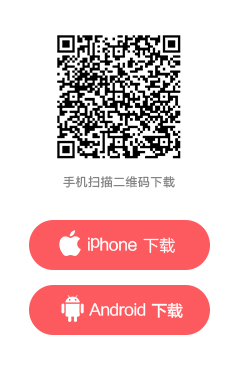
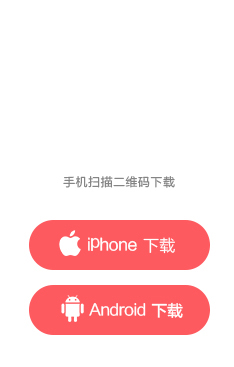
二维码

Changed region(s): [[0.2393, 0.0899, 0.7778, 0.4496]]

diff --git a/public/js/jquery.qrcode.min.js b/public/js/jquery.qrcode.min.js
@@ -1,0 +1,28 @@
+(function(r){r.fn.qrcode=function(h){var s;function u(a){this.mode=s;this.data=a}function o(a,c){this.typeNumber=a;this.errorCorrectLevel=c;this.modules=null;this.moduleCount=0;this.dataCache=null;this.dataList=[]}function q(a,c){if(void 0==a.length)throw Error(a.length+"/"+c);for(var d=0;d<a.length&&0==a[d];)d++;this.num=Array(a.length-d+c);for(var b=0;b<a.length-d;b++)this.num[b]=a[b+d]}function p(a,c){this.totalCount=a;this.dataCount=c}function t(){this.buffer=[];this.length=0}u.prototype={getLength:function(){return this.data.length},
+write:function(a){for(var c=0;c<this.data.length;c++)a.put(this.data.charCodeAt(c),8)}};o.prototype={addData:function(a){this.dataList.push(new u(a));this.dataCache=null},isDark:function(a,c){if(0>a||this.moduleCount<=a||0>c||this.moduleCount<=c)throw Error(a+","+c);return this.modules[a][c]},getModuleCount:function(){return this.moduleCount},make:function(){if(1>this.typeNumber){for(var a=1,a=1;40>a;a++){for(var c=p.getRSBlocks(a,this.errorCorrectLevel),d=new t,b=0,e=0;e<c.length;e++)b+=c[e].dataCount;
+for(e=0;e<this.dataList.length;e++)c=this.dataList[e],d.put(c.mode,4),d.put(c.getLength(),j.getLengthInBits(c.mode,a)),c.write(d);if(d.getLengthInBits()<=8*b)break}this.typeNumber=a}this.makeImpl(!1,this.getBestMaskPattern())},makeImpl:function(a,c){this.moduleCount=4*this.typeNumber+17;this.modules=Array(this.moduleCount);for(var d=0;d<this.moduleCount;d++){this.modules[d]=Array(this.moduleCount);for(var b=0;b<this.moduleCount;b++)this.modules[d][b]=null}this.setupPositionProbePattern(0,0);this.setupPositionProbePattern(this.moduleCount-
+7,0);this.setupPositionProbePattern(0,this.moduleCount-7);this.setupPositionAdjustPattern();this.setupTimingPattern();this.setupTypeInfo(a,c);7<=this.typeNumber&&this.setupTypeNumber(a);null==this.dataCache&&(this.dataCache=o.createData(this.typeNumber,this.errorCorrectLevel,this.dataList));this.mapData(this.dataCache,c)},setupPositionProbePattern:function(a,c){for(var d=-1;7>=d;d++)if(!(-1>=a+d||this.moduleCount<=a+d))for(var b=-1;7>=b;b++)-1>=c+b||this.moduleCount<=c+b||(this.modules[a+d][c+b]=
+0<=d&&6>=d&&(0==b||6==b)||0<=b&&6>=b&&(0==d||6==d)||2<=d&&4>=d&&2<=b&&4>=b?!0:!1)},getBestMaskPattern:function(){for(var a=0,c=0,d=0;8>d;d++){this.makeImpl(!0,d);var b=j.getLostPoint(this);if(0==d||a>b)a=b,c=d}return c},createMovieClip:function(a,c,d){a=a.createEmptyMovieClip(c,d);this.make();for(c=0;c<this.modules.length;c++)for(var d=1*c,b=0;b<this.modules[c].length;b++){var e=1*b;this.modules[c][b]&&(a.beginFill(0,100),a.moveTo(e,d),a.lineTo(e+1,d),a.lineTo(e+1,d+1),a.lineTo(e,d+1),a.endFill())}return a},
+setupTimingPattern:function(){for(var a=8;a<this.moduleCount-8;a++)null==this.modules[a][6]&&(this.modules[a][6]=0==a%2);for(a=8;a<this.moduleCount-8;a++)null==this.modules[6][a]&&(this.modules[6][a]=0==a%2)},setupPositionAdjustPattern:function(){for(var a=j.getPatternPosition(this.typeNumber),c=0;c<a.length;c++)for(var d=0;d<a.length;d++){var b=a[c],e=a[d];if(null==this.modules[b][e])for(var f=-2;2>=f;f++)for(var i=-2;2>=i;i++)this.modules[b+f][e+i]=-2==f||2==f||-2==i||2==i||0==f&&0==i?!0:!1}},setupTypeNumber:function(a){for(var c=
+j.getBCHTypeNumber(this.typeNumber),d=0;18>d;d++){var b=!a&&1==(c>>d&1);this.modules[Math.floor(d/3)][d%3+this.moduleCount-8-3]=b}for(d=0;18>d;d++)b=!a&&1==(c>>d&1),this.modules[d%3+this.moduleCount-8-3][Math.floor(d/3)]=b},setupTypeInfo:function(a,c){for(var d=j.getBCHTypeInfo(this.errorCorrectLevel<<3|c),b=0;15>b;b++){var e=!a&&1==(d>>b&1);6>b?this.modules[b][8]=e:8>b?this.modules[b+1][8]=e:this.modules[this.moduleCount-15+b][8]=e}for(b=0;15>b;b++)e=!a&&1==(d>>b&1),8>b?this.modules[8][this.moduleCount-
+b-1]=e:9>b?this.modules[8][15-b-1+1]=e:this.modules[8][15-b-1]=e;this.modules[this.moduleCount-8][8]=!a},mapData:function(a,c){for(var d=-1,b=this.moduleCount-1,e=7,f=0,i=this.moduleCount-1;0<i;i-=2)for(6==i&&i--;;){for(var g=0;2>g;g++)if(null==this.modules[b][i-g]){var n=!1;f<a.length&&(n=1==(a[f]>>>e&1));j.getMask(c,b,i-g)&&(n=!n);this.modules[b][i-g]=n;e--; -1==e&&(f++,e=7)}b+=d;if(0>b||this.moduleCount<=b){b-=d;d=-d;break}}}};o.PAD0=236;o.PAD1=17;o.createData=function(a,c,d){for(var c=p.getRSBlocks(a,
+c),b=new t,e=0;e<d.length;e++){var f=d[e];b.put(f.mode,4);b.put(f.getLength(),j.getLengthInBits(f.mode,a));f.write(b)}for(e=a=0;e<c.length;e++)a+=c[e].dataCount;if(b.getLengthInBits()>8*a)throw Error("code length overflow. ("+b.getLengthInBits()+">"+8*a+")");for(b.getLengthInBits()+4<=8*a&&b.put(0,4);0!=b.getLengthInBits()%8;)b.putBit(!1);for(;!(b.getLengthInBits()>=8*a);){b.put(o.PAD0,8);if(b.getLengthInBits()>=8*a)break;b.put(o.PAD1,8)}return o.createBytes(b,c)};o.createBytes=function(a,c){for(var d=
+0,b=0,e=0,f=Array(c.length),i=Array(c.length),g=0;g<c.length;g++){var n=c[g].dataCount,h=c[g].totalCount-n,b=Math.max(b,n),e=Math.max(e,h);f[g]=Array(n);for(var k=0;k<f[g].length;k++)f[g][k]=255&a.buffer[k+d];d+=n;k=j.getErrorCorrectPolynomial(h);n=(new q(f[g],k.getLength()-1)).mod(k);i[g]=Array(k.getLength()-1);for(k=0;k<i[g].length;k++)h=k+n.getLength()-i[g].length,i[g][k]=0<=h?n.get(h):0}for(k=g=0;k<c.length;k++)g+=c[k].totalCount;d=Array(g);for(k=n=0;k<b;k++)for(g=0;g<c.length;g++)k<f[g].length&&
+(d[n++]=f[g][k]);for(k=0;k<e;k++)for(g=0;g<c.length;g++)k<i[g].length&&(d[n++]=i[g][k]);return d};s=4;for(var j={PATTERN_POSITION_TABLE:[[],[6,18],[6,22],[6,26],[6,30],[6,34],[6,22,38],[6,24,42],[6,26,46],[6,28,50],[6,30,54],[6,32,58],[6,34,62],[6,26,46,66],[6,26,48,70],[6,26,50,74],[6,30,54,78],[6,30,56,82],[6,30,58,86],[6,34,62,90],[6,28,50,72,94],[6,26,50,74,98],[6,30,54,78,102],[6,28,54,80,106],[6,32,58,84,110],[6,30,58,86,114],[6,34,62,90,118],[6,26,50,74,98,122],[6,30,54,78,102,126],[6,26,52,
+78,104,130],[6,30,56,82,108,134],[6,34,60,86,112,138],[6,30,58,86,114,142],[6,34,62,90,118,146],[6,30,54,78,102,126,150],[6,24,50,76,102,128,154],[6,28,54,80,106,132,158],[6,32,58,84,110,136,162],[6,26,54,82,110,138,166],[6,30,58,86,114,142,170]],G15:1335,G18:7973,G15_MASK:21522,getBCHTypeInfo:function(a){for(var c=a<<10;0<=j.getBCHDigit(c)-j.getBCHDigit(j.G15);)c^=j.G15<<j.getBCHDigit(c)-j.getBCHDigit(j.G15);return(a<<10|c)^j.G15_MASK},getBCHTypeNumber:function(a){for(var c=a<<12;0<=j.getBCHDigit(c)-
+j.getBCHDigit(j.G18);)c^=j.G18<<j.getBCHDigit(c)-j.getBCHDigit(j.G18);return a<<12|c},getBCHDigit:function(a){for(var c=0;0!=a;)c++,a>>>=1;return c},getPatternPosition:function(a){return j.PATTERN_POSITION_TABLE[a-1]},getMask:function(a,c,d){switch(a){case 0:return 0==(c+d)%2;case 1:return 0==c%2;case 2:return 0==d%3;case 3:return 0==(c+d)%3;case 4:return 0==(Math.floor(c/2)+Math.floor(d/3))%2;case 5:return 0==c*d%2+c*d%3;case 6:return 0==(c*d%2+c*d%3)%2;case 7:return 0==(c*d%3+(c+d)%2)%2;default:throw Error("bad maskPattern:"+
+a);}},getErrorCorrectPolynomial:function(a){for(var c=new q([1],0),d=0;d<a;d++)c=c.multiply(new q([1,l.gexp(d)],0));return c},getLengthInBits:function(a,c){if(1<=c&&10>c)switch(a){case 1:return 10;case 2:return 9;case s:return 8;case 8:return 8;default:throw Error("mode:"+a);}else if(27>c)switch(a){case 1:return 12;case 2:return 11;case s:return 16;case 8:return 10;default:throw Error("mode:"+a);}else if(41>c)switch(a){case 1:return 14;case 2:return 13;case s:return 16;case 8:return 12;default:throw Error("mode:"+
+a);}else throw Error("type:"+c);},getLostPoint:function(a){for(var c=a.getModuleCount(),d=0,b=0;b<c;b++)for(var e=0;e<c;e++){for(var f=0,i=a.isDark(b,e),g=-1;1>=g;g++)if(!(0>b+g||c<=b+g))for(var h=-1;1>=h;h++)0>e+h||c<=e+h||0==g&&0==h||i==a.isDark(b+g,e+h)&&f++;5<f&&(d+=3+f-5)}for(b=0;b<c-1;b++)for(e=0;e<c-1;e++)if(f=0,a.isDark(b,e)&&f++,a.isDark(b+1,e)&&f++,a.isDark(b,e+1)&&f++,a.isDark(b+1,e+1)&&f++,0==f||4==f)d+=3;for(b=0;b<c;b++)for(e=0;e<c-6;e++)a.isDark(b,e)&&!a.isDark(b,e+1)&&a.isDark(b,e+
+2)&&a.isDark(b,e+3)&&a.isDark(b,e+4)&&!a.isDark(b,e+5)&&a.isDark(b,e+6)&&(d+=40);for(e=0;e<c;e++)for(b=0;b<c-6;b++)a.isDark(b,e)&&!a.isDark(b+1,e)&&a.isDark(b+2,e)&&a.isDark(b+3,e)&&a.isDark(b+4,e)&&!a.isDark(b+5,e)&&a.isDark(b+6,e)&&(d+=40);for(e=f=0;e<c;e++)for(b=0;b<c;b++)a.isDark(b,e)&&f++;a=Math.abs(100*f/c/c-50)/5;return d+10*a}},l={glog:function(a){if(1>a)throw Error("glog("+a+")");return l.LOG_TABLE[a]},gexp:function(a){for(;0>a;)a+=255;for(;256<=a;)a-=255;return l.EXP_TABLE[a]},EXP_TABLE:Array(256),
+LOG_TABLE:Array(256)},m=0;8>m;m++)l.EXP_TABLE[m]=1<<m;for(m=8;256>m;m++)l.EXP_TABLE[m]=l.EXP_TABLE[m-4]^l.EXP_TABLE[m-5]^l.EXP_TABLE[m-6]^l.EXP_TABLE[m-8];for(m=0;255>m;m++)l.LOG_TABLE[l.EXP_TABLE[m]]=m;q.prototype={get:function(a){return this.num[a]},getLength:function(){return this.num.length},multiply:function(a){for(var c=Array(this.getLength()+a.getLength()-1),d=0;d<this.getLength();d++)for(var b=0;b<a.getLength();b++)c[d+b]^=l.gexp(l.glog(this.get(d))+l.glog(a.get(b)));return new q(c,0)},mod:function(a){if(0>
+this.getLength()-a.getLength())return this;for(var c=l.glog(this.get(0))-l.glog(a.get(0)),d=Array(this.getLength()),b=0;b<this.getLength();b++)d[b]=this.get(b);for(b=0;b<a.getLength();b++)d[b]^=l.gexp(l.glog(a.get(b))+c);return(new q(d,0)).mod(a)}};p.RS_BLOCK_TABLE=[[1,26,19],[1,26,16],[1,26,13],[1,26,9],[1,44,34],[1,44,28],[1,44,22],[1,44,16],[1,70,55],[1,70,44],[2,35,17],[2,35,13],[1,100,80],[2,50,32],[2,50,24],[4,25,9],[1,134,108],[2,67,43],[2,33,15,2,34,16],[2,33,11,2,34,12],[2,86,68],[4,43,27],
+[4,43,19],[4,43,15],[2,98,78],[4,49,31],[2,32,14,4,33,15],[4,39,13,1,40,14],[2,121,97],[2,60,38,2,61,39],[4,40,18,2,41,19],[4,40,14,2,41,15],[2,146,116],[3,58,36,2,59,37],[4,36,16,4,37,17],[4,36,12,4,37,13],[2,86,68,2,87,69],[4,69,43,1,70,44],[6,43,19,2,44,20],[6,43,15,2,44,16],[4,101,81],[1,80,50,4,81,51],[4,50,22,4,51,23],[3,36,12,8,37,13],[2,116,92,2,117,93],[6,58,36,2,59,37],[4,46,20,6,47,21],[7,42,14,4,43,15],[4,133,107],[8,59,37,1,60,38],[8,44,20,4,45,21],[12,33,11,4,34,12],[3,145,115,1,146,
+116],[4,64,40,5,65,41],[11,36,16,5,37,17],[11,36,12,5,37,13],[5,109,87,1,110,88],[5,65,41,5,66,42],[5,54,24,7,55,25],[11,36,12],[5,122,98,1,123,99],[7,73,45,3,74,46],[15,43,19,2,44,20],[3,45,15,13,46,16],[1,135,107,5,136,108],[10,74,46,1,75,47],[1,50,22,15,51,23],[2,42,14,17,43,15],[5,150,120,1,151,121],[9,69,43,4,70,44],[17,50,22,1,51,23],[2,42,14,19,43,15],[3,141,113,4,142,114],[3,70,44,11,71,45],[17,47,21,4,48,22],[9,39,13,16,40,14],[3,135,107,5,136,108],[3,67,41,13,68,42],[15,54,24,5,55,25],[15,
+43,15,10,44,16],[4,144,116,4,145,117],[17,68,42],[17,50,22,6,51,23],[19,46,16,6,47,17],[2,139,111,7,140,112],[17,74,46],[7,54,24,16,55,25],[34,37,13],[4,151,121,5,152,122],[4,75,47,14,76,48],[11,54,24,14,55,25],[16,45,15,14,46,16],[6,147,117,4,148,118],[6,73,45,14,74,46],[11,54,24,16,55,25],[30,46,16,2,47,17],[8,132,106,4,133,107],[8,75,47,13,76,48],[7,54,24,22,55,25],[22,45,15,13,46,16],[10,142,114,2,143,115],[19,74,46,4,75,47],[28,50,22,6,51,23],[33,46,16,4,47,17],[8,152,122,4,153,123],[22,73,45,
+3,74,46],[8,53,23,26,54,24],[12,45,15,28,46,16],[3,147,117,10,148,118],[3,73,45,23,74,46],[4,54,24,31,55,25],[11,45,15,31,46,16],[7,146,116,7,147,117],[21,73,45,7,74,46],[1,53,23,37,54,24],[19,45,15,26,46,16],[5,145,115,10,146,116],[19,75,47,10,76,48],[15,54,24,25,55,25],[23,45,15,25,46,16],[13,145,115,3,146,116],[2,74,46,29,75,47],[42,54,24,1,55,25],[23,45,15,28,46,16],[17,145,115],[10,74,46,23,75,47],[10,54,24,35,55,25],[19,45,15,35,46,16],[17,145,115,1,146,116],[14,74,46,21,75,47],[29,54,24,19,
+55,25],[11,45,15,46,46,16],[13,145,115,6,146,116],[14,74,46,23,75,47],[44,54,24,7,55,25],[59,46,16,1,47,17],[12,151,121,7,152,122],[12,75,47,26,76,48],[39,54,24,14,55,25],[22,45,15,41,46,16],[6,151,121,14,152,122],[6,75,47,34,76,48],[46,54,24,10,55,25],[2,45,15,64,46,16],[17,152,122,4,153,123],[29,74,46,14,75,47],[49,54,24,10,55,25],[24,45,15,46,46,16],[4,152,122,18,153,123],[13,74,46,32,75,47],[48,54,24,14,55,25],[42,45,15,32,46,16],[20,147,117,4,148,118],[40,75,47,7,76,48],[43,54,24,22,55,25],[10,
+45,15,67,46,16],[19,148,118,6,149,119],[18,75,47,31,76,48],[34,54,24,34,55,25],[20,45,15,61,46,16]];p.getRSBlocks=function(a,c){var d=p.getRsBlockTable(a,c);if(void 0==d)throw Error("bad rs block @ typeNumber:"+a+"/errorCorrectLevel:"+c);for(var b=d.length/3,e=[],f=0;f<b;f++)for(var h=d[3*f+0],g=d[3*f+1],j=d[3*f+2],l=0;l<h;l++)e.push(new p(g,j));return e};p.getRsBlockTable=function(a,c){switch(c){case 1:return p.RS_BLOCK_TABLE[4*(a-1)+0];case 0:return p.RS_BLOCK_TABLE[4*(a-1)+1];case 3:return p.RS_BLOCK_TABLE[4*
+(a-1)+2];case 2:return p.RS_BLOCK_TABLE[4*(a-1)+3]}};t.prototype={get:function(a){return 1==(this.buffer[Math.floor(a/8)]>>>7-a%8&1)},put:function(a,c){for(var d=0;d<c;d++)this.putBit(1==(a>>>c-d-1&1))},getLengthInBits:function(){return this.length},putBit:function(a){var c=Math.floor(this.length/8);this.buffer.length<=c&&this.buffer.push(0);a&&(this.buffer[c]|=128>>>this.length%8);this.length++}};"string"===typeof h&&(h={text:h});h=r.extend({},{render:"canvas",width:256,height:256,typeNumber:-1,
+correctLevel:2,background:"#ffffff",foreground:"#000000"},h);return this.each(function(){var a;if("canvas"==h.render){a=new o(h.typeNumber,h.correctLevel);a.addData(h.text);a.make();var c=document.createElement("canvas");c.width=h.width;c.height=h.height;for(var d=c.getContext("2d"),b=h.width/a.getModuleCount(),e=h.height/a.getModuleCount(),f=0;f<a.getModuleCount();f++)for(var i=0;i<a.getModuleCount();i++){d.fillStyle=a.isDark(f,i)?h.foreground:h.background;var g=Math.ceil((i+1)*b)-Math.floor(i*b),
+j=Math.ceil((f+1)*b)-Math.floor(f*b);d.fillRect(Math.round(i*b),Math.round(f*e),g,j)}}else{a=new o(h.typeNumber,h.correctLevel);a.addData(h.text);a.make();c=r("<table></table>").css("width",h.width+"px").css("height",h.height+"px").css("border","0px").css("border-collapse","collapse").css("background-color",h.background);d=h.width/a.getModuleCount();b=h.height/a.getModuleCount();for(e=0;e<a.getModuleCount();e++){f=r("<tr></tr>").css("height",b+"px").appendTo(c);for(i=0;i<a.getModuleCount();i++)r("<td></td>").css("width",
+d+"px").css("background-color",a.isDark(e,i)?h.foreground:h.background).appendTo(f)}}a=c;jQuery(a).appendTo(this)})}})(jQuery);

diff --git a/public/css/common.css b/public/css/common.css
@@ -3,10 +3,9 @@
 
 .header{height: 50px;width: 100%;position: fixed;z-index: 99;left: 0;top: 0;}	
 .header .copy{height: 50px;padding: 0 2%;position: fixed;z-index: -1;left: 0;top: 0;background: #fff;width: 100%;opacity: 0.6;filter: alpha(opacity=60)}
-.header .log {font-size:0;width:50%;height:100%;float:left;}
-.header .right_nav{float:left;font-size:16px;height:50px;line-height:50px;margin-left:490px;color:#000000;cursor:pointer;}
-.header .log img{margin-right: 30px;display: inline-block;}
-.header .log img.img1{margin-left:384px;margin-top:10px;cursor:pointer;}
+.header .log {font-size:0;width:100%;height:100%;margin:0 auto;}
+.header .log img{margin-right: 30px;display:block;float:left;}
+.header .log img.img1{margin-top:10px;cursor:pointer;margin-left:19%;}
 .header .log img.img2{margin-top:10px;cursor:pointer;}
 .header .nav a{color: #666;font-size: 16px;margin-left:28px;border-bottom: 2px solid #fff;padding-bottom: 5px;}
 .header .nav a:hover{border-bottom: 2px solid #D26D57;}
@@ -16,6 +15,7 @@
 
 @media only screen and (max-width:3000px) {
 	#fixd{width:12%;height:37.5%;border-radius:8px;background:url(../images/erweima.jpg) no-repeat;background-size:100%;position:fixed;top:32.5%;left:58%;z-index:999;opacity: 1;filter: alpha(opacity=100)}   
+	#fixd img{width:125px;height:125px;display:block;margin:0 auto;margin-top:35px;}
 	#section0{width:100%;height:100%;background: url(../images/1_01.jpg) no-repeat center top;background-color:#fefdf9;}
 	#section1{width:100%;height:100%;background: url(../images/1_02.jpg) no-repeat center top;background-color:#f6f6f6}
 	#section2{width:100%;height:100%;background: url(../images/1_03.jpg) no-repeat center top;background-color:#fbf9fa ;}
@@ -30,7 +30,9 @@
 }
 @media only screen and (min-width:1919px) and (max-width:2400px) {
 	body{min-width:1280px;min-height:649.2px;}
+	.header .log .right_nav{font-size:16px;height:50px;line-height:50px;color:#000000;cursor:pointer;float:right;margin-right:20%;}
 	#fixd{width:234px;height:367px;border-radius:8px;background:url(../images/erweima.jpg) no-repeat;background-size:100%;position:fixed;top:32.5%;left:58%;z-index:999;opacity: 1;filter: alpha(opacity=100)}		
+	#fixd img{width:125px;height:125px;display:block;margin:0 auto;margin-top:35px;}
 	#container{display:none;}
 /*x100%*/
 
@@ -43,7 +45,9 @@
 }
 @media only screen and (min-width:1493px) and (max-width:1919px) {	
 	body{min-width:1280px;min-height:649.2px;}	
+	.header .log .right_nav{font-size:16px;height:50px;line-height:50px;color:#000000;cursor:pointer;float:right;margin-right:20%;}	
 	#fixd{width:210.6px;height:330.3px;border-radius:8px;background:url(../images/erweima.jpg) no-repeat;background-size:100%;position:fixed;top:32.5%;left:58%;z-index:999;opacity: 1;filter: alpha(opacity=100)}
+	#fixd img{width:112.5px;height:112.5px;display:block;margin:0 auto;margin-top:31.5px;}	
 	#container{display:none;}
 /*x90%*/
 	#section2 .im1{width:70.2px;height:74.7px;background: url(../images/奶瓶.png) no-repeat;background-size:100%;position:absolute;top:37%;left:18%;}
@@ -55,7 +59,9 @@
 }
 @media only screen and (min-width:1280px) and (max-width:1493px) {	
 	body{min-width:1280px;min-height:649.2px;}	
+	.header .log .right_nav{font-size:16px;height:50px;line-height:50px;color:#000000;cursor:pointer;float:right;margin-right:20%;}	
 	#fixd{width:187.2px;height:293.6px;border-radius:8px;background:url(../images/erweima.jpg) no-repeat;background-size:100%;position:fixed;top:32.5%;left:58%;z-index:999;opacity: 1;filter: alpha(opacity=100)}
+	#fixd img{width:100px;height:100px;display:block;margin:0 auto;margin-top:28px;}	
 	#container{display:none;}
 /*x80%*/
 	#section2 .im1{width:62.4px;height:66.4px;background: url(../images/奶瓶.png) no-repeat;background-size:100%;position:absolute;top:35%;left:18%;}
@@ -68,7 +74,10 @@
 /*70*/
 @media only screen and (min-width:769px)  and (max-width:1280px) {
 	body{min-width:1280px;min-height:649.2px;}	
+	.header .log .right_nav{font-size:16px;height:50px;line-height:50px;color:#000000;cursor:pointer;position:fixed;left:957px;}
+	
 	#fixd{width:163.8px;height:256.9px;border-radius:8px;background:url(../images/erweima.jpg) no-repeat;background-size:100%;position:fixed;top:250px;left:739px;z-index:999;opacity: 1;filter: alpha(opacity=100)}	
+	#fixd img{width:87.5px;height:87.5px;display:block;margin:0 auto;margin-top:24.5px;}	
 	#container{display:none;}
 	#section2 .im1{width:54.6px;height:58.1px;background: url(../images/奶瓶.png) no-repeat;background-size:100%;position:absolute;top:37%;left:18%;}
 	#section2 .im2{width:45.5px;height:49px;background: url(../images/煲汤.png) no-repeat;background-size:100%;position:absolute;top:48%;left:33%;}

diff --git a/public/index.html b/public/index.html
@@ -23,13 +23,15 @@
 		<div class="header clearfix" id="header">
 			<div class="log">
 				<img class="img1" src="images/logo_1.png" />
-				<img calss="img2" src="images/yizhenjia.png" />
+				<img class="img2" src="images/yizhenjia.png" />
+				<a href="http://shangjia.yizhenjia.com/" class="right_nav" target="_blank">
+					<p>商户登录</p>
+				</a>
 			</div>
 			<div class="copy"></div>
-			<a href="http://shangjia.yizhenjia.com/" class="right_nav" target="_blank">
-				<p>商户登录</p>
-			</a>
-			<div id="fixd"></div>
+			<div id="fixd">
+				<img src="images/ma.png"/>
+			</div>
 		</div>
 		<!--header-->
 
